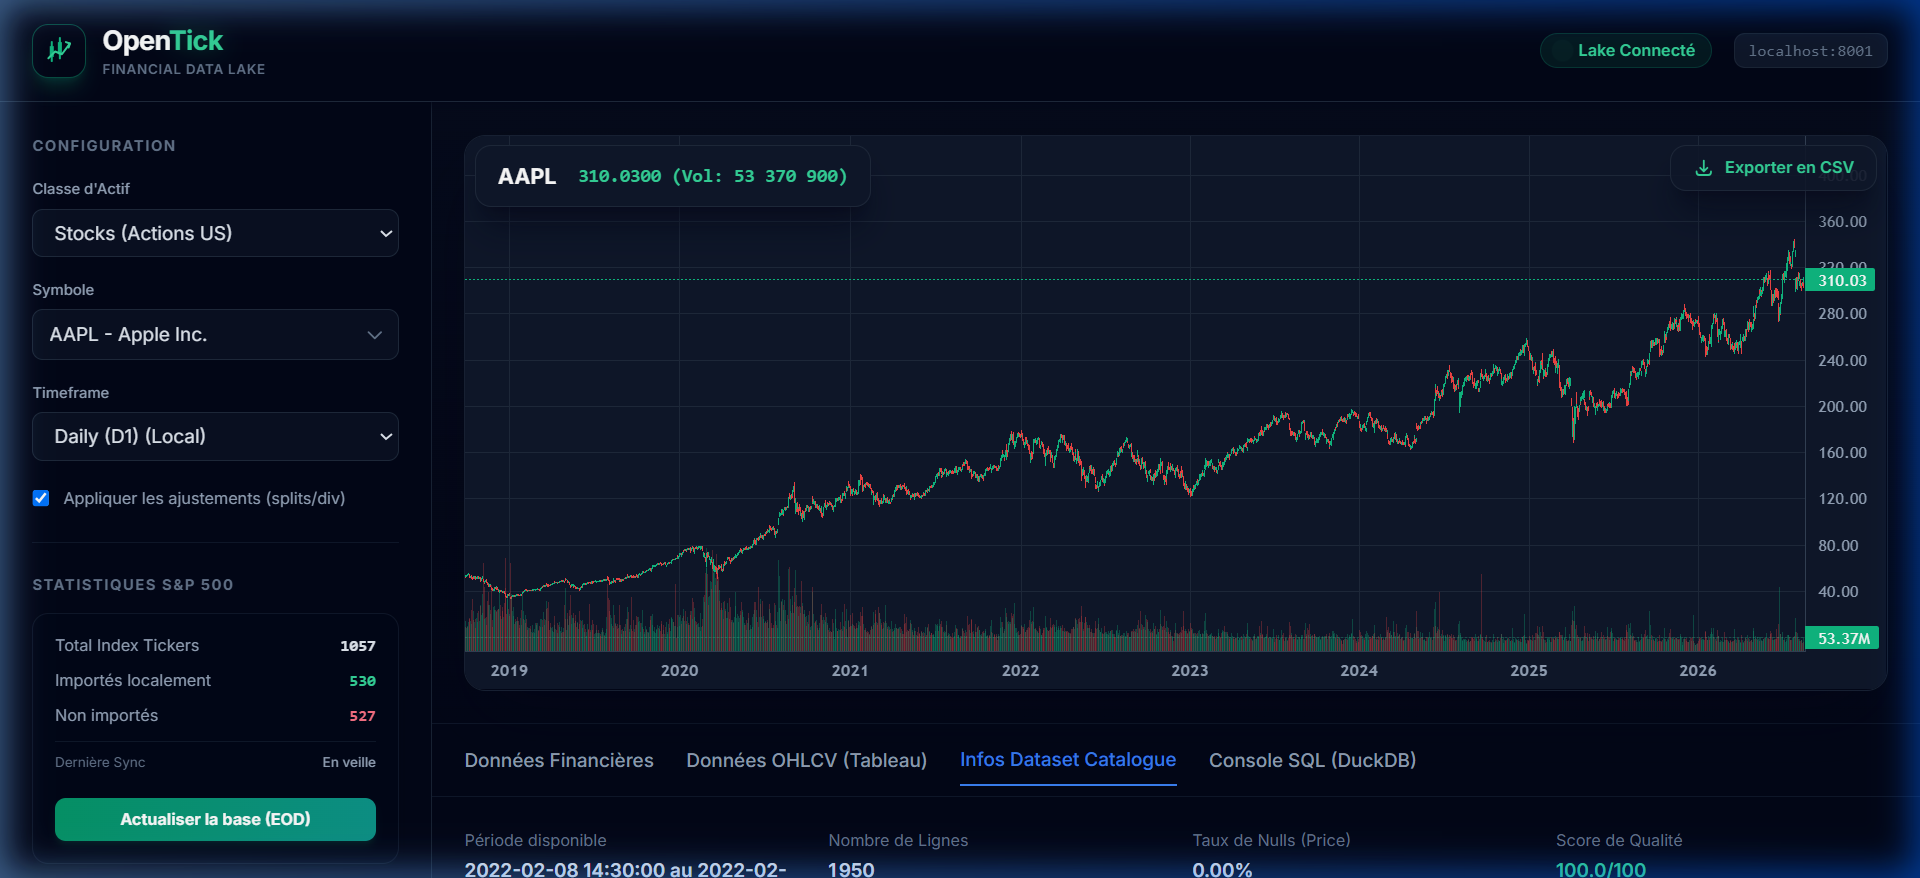
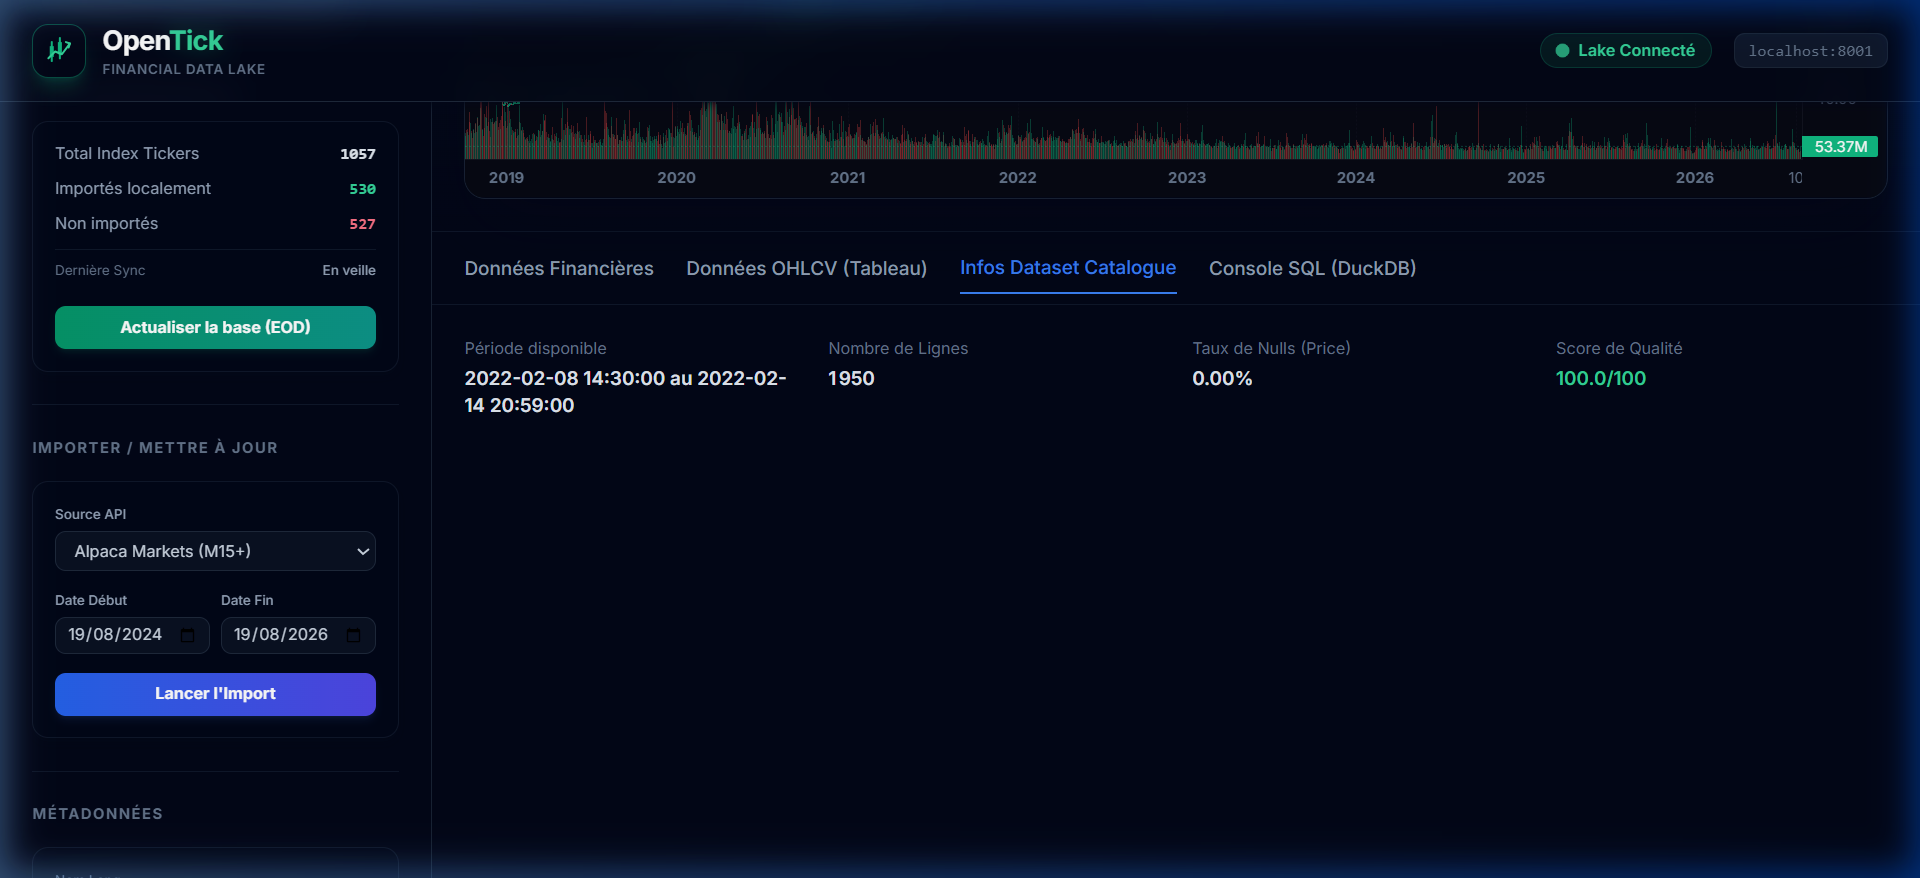
docs: improve table screenshots visibility with scroll-down, set metadata screenshot to full width

diff --git a/README.md b/README.md
@@ -45,7 +45,7 @@ A custom search combobox filters through thousands of symbols in real time, matc
 Shows complete corporate profiles mapped directly to the active symbol. This includes Sector, Industry, Market Capitalization, Index weights, and a full corporate summary dynamically synced from index database files.
 
 <p align="center">
-  <img src="docs/assets/data_explorer_metadata.png" width="50%" style="border-radius: 12px; border: 1px solid #1e293b;" alt="Metadata and Business Activity Panel"/>
+  <img src="docs/assets/data_explorer_metadata.png" width="100%" style="border-radius: 12px; border: 1px solid #1e293b;" alt="Metadata and Business Activity Panel"/>
 </p>
 
 ### 💵 4. Dynamic Financials & Asof-Joined Fundamentals
